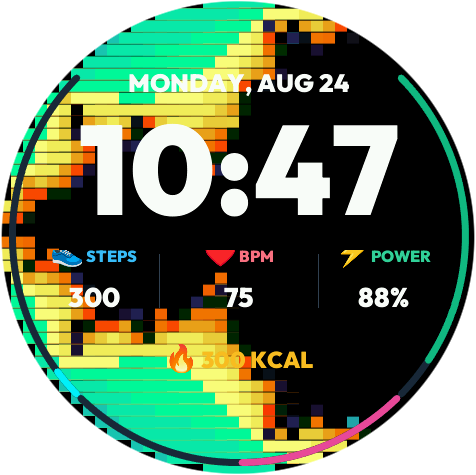
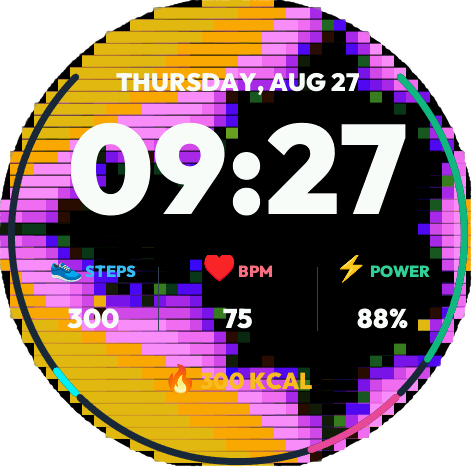
Update assets

diff --git a/watchface/index.js b/watchface/index.js
@@ -89,14 +89,14 @@ const MAX_R_SQ = 236 * 236 // Circular screen boundary radius
 
 // Iconic Mandelbrot Zoom Destinations (cycles each minute)
 const ZOOM_TARGETS = [
-  { name: 'Electric Cardioid', cr: -0.65, ci: 0.0, minSpan: 0.015, maxSpan: 1.30 },
-  { name: 'Seahorse Valley', cr: -0.743643887, ci: 0.1318259042, minSpan: 0.008, maxSpan: 1.30 },
-  { name: 'Triple Spiral', cr: -0.16070135, ci: 1.0375665, minSpan: 0.010, maxSpan: 1.30 },
-  { name: 'Elephant Valley', cr: 0.27415, ci: 0.48235, minSpan: 0.012, maxSpan: 1.30 },
-  { name: 'Mini-Brot Satellite', cr: -1.74975, ci: 0.00015, minSpan: 0.006, maxSpan: 1.30 },
-  { name: 'Starfish Galaxy', cr: -0.776592847, ci: 0.136640848, minSpan: 0.008, maxSpan: 1.30 },
-  { name: 'Feather Valley', cr: -0.7995, ci: 0.1562, minSpan: 0.010, maxSpan: 1.30 },
-  { name: 'Golden Spiral', cr: -0.7492, ci: 0.1102, minSpan: 0.009, maxSpan: 1.30 }
+  { name: 'Mini-Brot Satellite', cr: -1.74975, ci: 0.00015, minSpan: 0.006, maxSpan: 1.30, paletteIdx: 4 },
+  { name: 'Electric Cardioid', cr: -0.65, ci: 0.0, minSpan: 0.015, maxSpan: 1.30, paletteIdx: 0 },
+  { name: 'Seahorse Valley', cr: -0.743643887, ci: 0.1318259042, minSpan: 0.008, maxSpan: 1.30, paletteIdx: 1 },
+  { name: 'Triple Spiral', cr: -0.16070135, ci: 1.0375665, minSpan: 0.010, maxSpan: 1.30, paletteIdx: 2 },
+  { name: 'Elephant Valley', cr: 0.27415, ci: 0.48235, minSpan: 0.012, maxSpan: 1.30, paletteIdx: 3 },
+  { name: 'Starfish Galaxy', cr: -0.776592847, ci: 0.136640848, minSpan: 0.008, maxSpan: 1.30, paletteIdx: 0 },
+  { name: 'Feather Valley', cr: -0.7995, ci: 0.1562, minSpan: 0.010, maxSpan: 1.30, paletteIdx: 1 },
+  { name: 'Golden Spiral', cr: -0.7492, ci: 0.1102, minSpan: 0.009, maxSpan: 1.30, paletteIdx: 3 }
 ]
 
 // Glowing Electric Color Engine
@@ -160,6 +160,7 @@ WatchFace({
     isAOD: false,
     timerId: null,
     lastRenderedSecond: -1,
+    startMinute: null,
     batterySensor: null,
     stepSensor: null,
     heartRateSensor: null,
@@ -226,6 +227,7 @@ WatchFace({
       this.startClockTimer()
 
       const now = new Date()
+      this.state.startMinute = now.getMinutes()
       this.renderMandelbrotZoom(now.getSeconds(), now.getMinutes(), true)
     }
   },
@@ -460,9 +462,9 @@ WatchFace({
     // Left Column: STEPS
     const stepHeader = createWidget(widget.TEXT, {
       x: px(35),
-      y: px(254),
+      y: px(260),
       w: px(120),
-      h: px(26),
+      h: px(46),
       color: 0x38BDF8,
       text_size: px(16),
       font: FONT_BOLD,
@@ -472,7 +474,7 @@ WatchFace({
     })
     this.state.stepWidget = createWidget(widget.TEXT, {
       x: px(35),
-      y: px(282),
+      y: px(304),
       w: px(120),
       h: px(38),
       color: 0xFFFFFF,
@@ -491,18 +493,18 @@ WatchFace({
     // Vertical Divider 1
     createWidget(widget.FILL_RECT, {
       x: px(160),
-      y: px(258),
+      y: px(272),
       w: px(1),
-      h: px(54),
+      h: px(64),
       color: 0x334155
     })
 
     // Middle Column: HEART RATE
     const hrHeader = createWidget(widget.TEXT, {
       x: px(170),
-      y: px(254),
+      y: px(260),
       w: px(140),
-      h: px(26),
+      h: px(46),
       color: 0xFB7185,
       text_size: px(16),
       font: FONT_BOLD,
@@ -512,7 +514,7 @@ WatchFace({
     })
     this.state.heartRateWidget = createWidget(widget.TEXT, {
       x: px(170),
-      y: px(282),
+      y: px(304),
       w: px(140),
       h: px(38),
       color: 0xFFFFFF,
@@ -531,18 +533,18 @@ WatchFace({
     // Vertical Divider 2
     createWidget(widget.FILL_RECT, {
       x: px(319),
-      y: px(258),
+      y: px(272),
       w: px(1),
-      h: px(54),
+      h: px(64),
       color: 0x334155
     })
 
     // Right Column: BATTERY / POWER
     const batteryHeader = createWidget(widget.TEXT, {
       x: px(325),
-      y: px(254),
+      y: px(260),
       w: px(120),
-      h: px(26),
+      h: px(46),
       color: 0x34D399,
       text_size: px(16),
       font: FONT_BOLD,
@@ -552,7 +554,7 @@ WatchFace({
     })
     this.state.batteryWidget = createWidget(widget.TEXT, {
       x: px(325),
-      y: px(282),
+      y: px(304),
       w: px(120),
       h: px(38),
       color: 0xFFFFFF,
@@ -571,9 +573,9 @@ WatchFace({
     // 6. Bottom Row: CALORIES
     this.state.calorieWidget = createWidget(widget.TEXT, {
       x: px(40),
-      y: px(348),
+      y: px(366),
       w: px(400),
-      h: px(36),
+      h: px(44),
       color: 0xFBBF24,
       text_size: px(23),
       font: FONT_BOLD,
@@ -607,9 +609,13 @@ WatchFace({
 
     this.state.lastRenderedSecond = second
 
-    const targetIdx = minute % ZOOM_TARGETS.length
+    let minuteDelta = 0
+    if (this.state.startMinute !== null) {
+      minuteDelta = (minute - this.state.startMinute + 60) % 60
+    }
+    const targetIdx = minuteDelta % ZOOM_TARGETS.length
     const target = ZOOM_TARGETS[targetIdx]
-    const paletteIdx = targetIdx
+    const paletteIdx = typeof target.paletteIdx === 'number' ? target.paletteIdx : targetIdx
 
     // Smooth sinusoidal zoom dive (0..30 dives in, 30..59 pulls back out)
     const progress = (1 - Math.cos((second / 60) * 2 * Math.PI)) / 2
